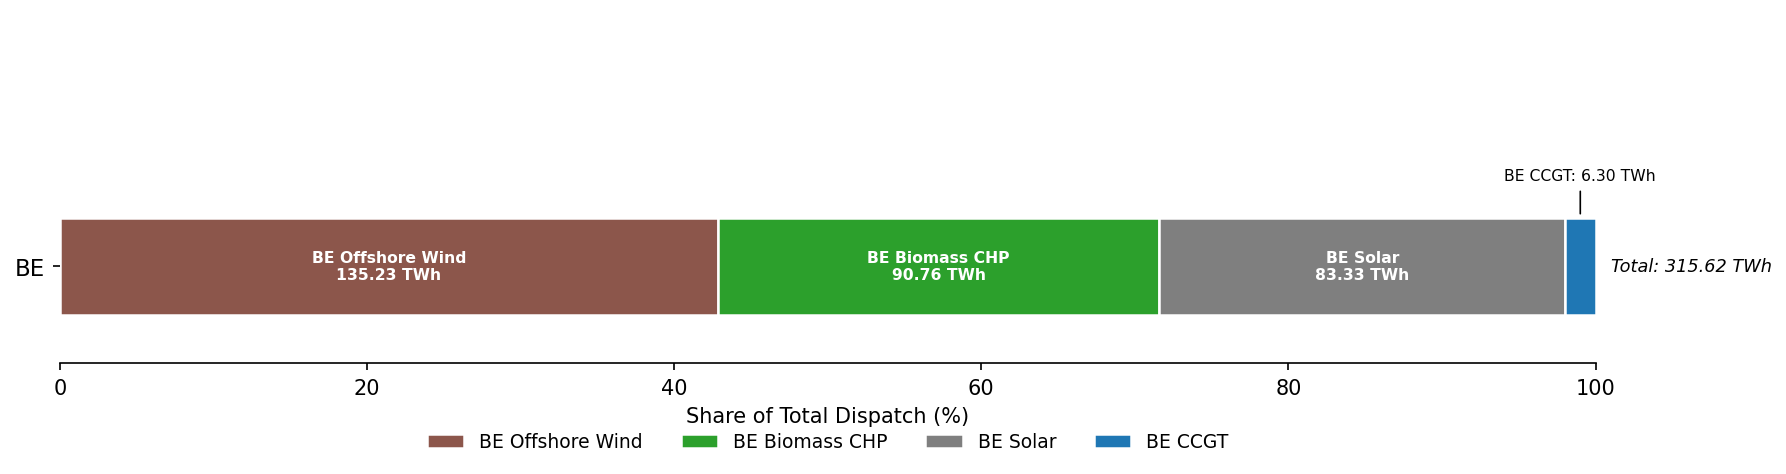
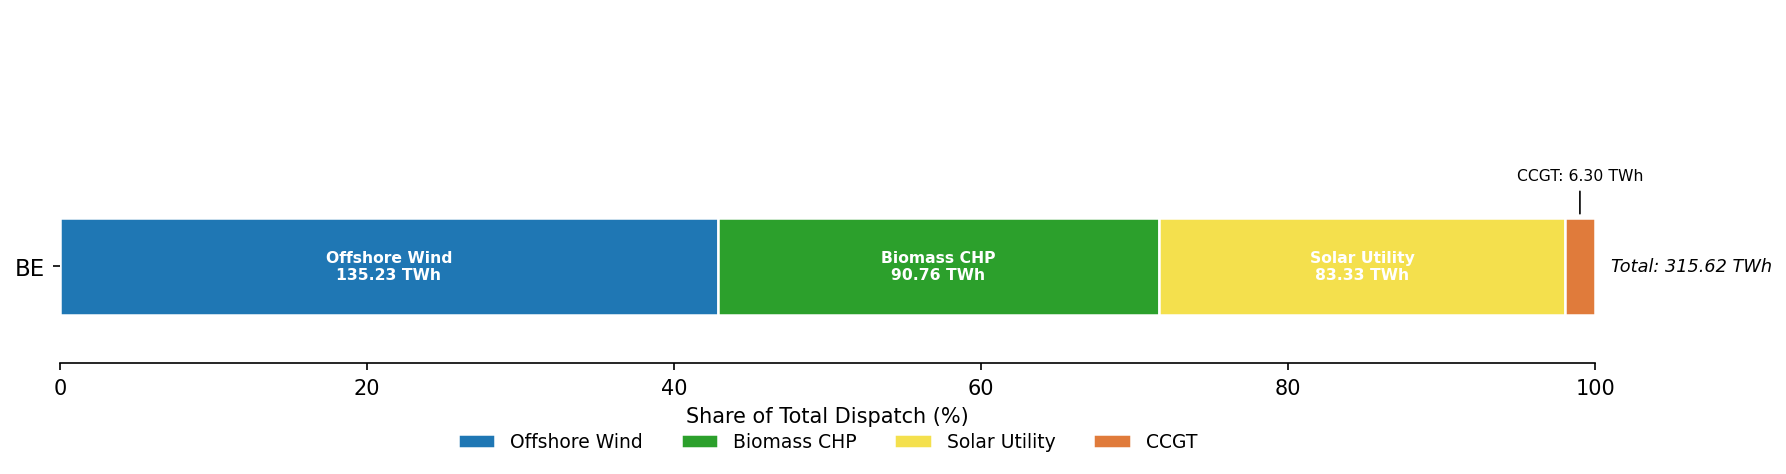
plots d, f not working yet

diff --git a/src/visualizer.py b/src/visualizer.py
@@ -24,6 +24,20 @@ class Visualizer:
         self.capacity_dict = capacity_dict
         self.scenario_name = scenario_name
 
+        self.TECH_COLORS = {
+            "CCGT":           "#e07b3b",
+            "Nuclear":        "#9467bd",
+            "Biomass CHP":    "#2ca02c",
+            "Solar Rooftop":  "#f7c948",
+            "Solar Utility":  "#f4e04d",
+            "Onshore Wind":   "#74c0e0",
+            "Offshore Wind":  "#1f77b4",
+            "Pumped Storage": "#8c564b",
+            "hydro":          "#17becf",
+            "Oil":            "#d62728",
+            "Coal":           "#8c564b",
+        }
+
     def _make_path(self, default_name: str) -> str:
         if self.scenario_name:
             prefix = self.scenario_name + "_"
@@ -31,9 +45,45 @@ class Visualizer:
             prefix = ""
         os.makedirs("results", exist_ok=True)
         return f"results/{prefix}{default_name}.png"
+
+    def _get_label(self, key: str) -> str:
+        """Extract a human-readable label from a generator key, ignoring country."""
+        parts = key.split("_")
+        try:
+            type_idx = next(i for i, p in enumerate(parts) if p in ("conv", "vol", "storage"))
+            # everything after the type token is COUNTRY_tech, but country may
+            # contain underscores (e.g. DE_LU), so match against known countries
+            remainder = parts[type_idx + 1:]  # e.g. ["DE", "LU", "CCGT"]
+            known_countries = [b.replace("bus_", "") for b in self.network.buses.index]
+            # try progressively longer country prefixes until one matches
+            country_token = ""
+            tech_parts = remainder
+            for i in range(1, len(remainder)):
+                candidate = "_".join(remainder[:i])
+                if candidate in known_countries:
+                    country_token = candidate
+                    tech_parts = remainder[i:]
+            normalized = "_".join(parts[:type_idx + 1]) + "_" + "_".join(tech_parts)
+        except StopIteration:
+            normalized = key
+            tech_parts = parts
+
+        return self.LABEL_MAP.get(normalized, "_".join(tech_parts))
     
     # CHANGE: modified the names of each technology as their saved with the country code 
     LABEL_MAP = {
+        "generator_conv_CCGT": "CCGT",
+        "generator_conv_nuclear": "Nuclear",
+        "generator_conv_biomass CHP": "Biomass CHP",
+        "generator_vol_solar-rooftop": "Solar Rooftop",
+        "generator_vol_solar-utility": "Solar Utility",
+        "generator_vol_onwind": "Onshore Wind",
+        "generator_vol_offwind": "Offshore Wind",
+        "generator_storage_Pumped-Storage-Hydro-bicharger": "Pumped Storage",
+        "generator_vol_hydro": "Hydro",
+        "generator_conv_oil": "Oil",
+        "generator_conv_coal": "Coal",
+
         # BE
         "generator_conv_BE_CCGT": "BE CCGT",
         "generator_conv_BE_nuclear": "BE Nuclear",
@@ -133,7 +183,7 @@ class Visualizer:
                 axes[idx].plot(
                     series.index,
                     series.values / 1000,  # Convert MWh to GWh
-                    label=self.LABEL_MAP.get(label, label),
+                    label=self._get_label(label),
                     color=color,
                     linewidth=1.4,
                     alpha=0.9,
@@ -194,9 +244,9 @@ class Visualizer:
         # --- build a global colour map keyed by technology label ---
         # collect all unique labels across all countries
         all_keys = sorted({k for c in country_totals.values() for k in c.keys()})
-        all_labels = [self.LABEL_MAP.get(k, k) for k in all_keys]
+        all_labels = [self._get_label(key) for key in all_keys]
         label_to_color = {
-            label: cm.tab10(i / len(all_labels))
+            label: self.TECH_COLORS.get(label, cm.tab10(i / len(all_labels)))
             for i, label in enumerate(all_labels)
         }
 
@@ -223,7 +273,7 @@ class Visualizer:
 
             left = 0.0
             for key, value in totals.items():
-                label = self.LABEL_MAP.get(key, key)
+                label = self._get_label(key)
                 color = label_to_color[label]
                 pct   = value / total_disp * 100
 
@@ -315,7 +365,7 @@ class Visualizer:
 
         Saves the figure to 'results/sensitivity_capacity_to_weather_years.png'.
         """
-        labels = [self.LABEL_MAP.get(k, k) for k in self.capacity_dict.keys()]
+        labels = [self._get_label(key) for key in self.capacity_dict.keys()]
 
         data = []
         for v in self.capacity_dict.values():
@@ -481,7 +531,7 @@ class Visualizer:
                 ax.plot(
                     diff.index,
                     diff.values / 1000,          # MWh → GWh
-                    label=self.LABEL_MAP.get(key, key),
+                    label=self._get_label(key),
                     color=color,
                     linewidth=1.4,
                     alpha=0.9,
@@ -561,7 +611,7 @@ class Visualizer:
             ax_soc   = axes[s_idx * 2 + 1]
 
             for unit, color in zip(storage_units, colors):
-                label = self.LABEL_MAP.get(unit, unit)
+                label = self._get_label(unit)
 
                 # --- power ---
                 power = self.network.storage_units_t.p[unit].loc[start:end]
@@ -617,5 +667,154 @@ class Visualizer:
             fontsize=12, framealpha=0.7, bbox_to_anchor=(0.5, -0.04),
         )
 
+        plt.savefig(self._make_path(name), dpi=150, bbox_inches="tight")
+        plt.close()
+    
+    def plot_scenario_comparison(
+        self,
+        other: "Visualizer",
+        self_label: str = "C",
+        other_label: str = "F",
+        name: str = "scenario_comparison",
+    ) -> None:
+        """
+        Grouped vertical bar chart comparing dispatch (TWh) per technology
+        between two scenarios for Belgium.
+        """
+        # collect all technology labels across both scenarios
+        all_keys = sorted(
+            set(self.dispatch_series_dict.keys()) | set(other.dispatch_series_dict.keys())
+        )
+        all_labels = [self._get_label(k) for k in all_keys]
+
+        # deduplicate while preserving order
+        seen = {}
+        for key, label in zip(all_keys, all_labels):
+            if label not in seen:
+                seen[label] = key
+        unique_labels = list(seen.keys())
+        unique_keys   = list(seen.values())
+
+        def get_twh(vis, key):
+            s = vis.dispatch_series_dict.get(key)
+            return s.sum() / 1e6 if s is not None else 0.0
+
+        values_self  = [get_twh(self, k)  for k in unique_keys]
+        values_other = [get_twh(other, k) for k in unique_keys]
+
+        x      = np.arange(len(unique_labels))
+        width  = 0.35
+        colors = [self.TECH_COLORS.get(l, cm.tab10(i / len(unique_labels)))
+                for i, l in enumerate(unique_labels)]
+
+        fig, ax = plt.subplots(figsize=(10, 5))
+
+        for i, (label, v_self, v_other, color) in enumerate(
+            zip(unique_labels, values_self, values_other, colors)
+        ):
+            ax.bar(x[i] - width / 2, v_self,  width, color=color, alpha=1.0,
+                edgecolor="white", linewidth=0.8)
+            ax.bar(x[i] + width / 2, v_other, width, color=color, alpha=0.45,
+                edgecolor="white", linewidth=0.8)
+
+        # scenario legend entries
+        from matplotlib.patches import Patch
+        scenario_handles = [
+            Patch(facecolor="grey", alpha=1.0,  label=self_label),
+            Patch(facecolor="grey", alpha=0.45, label=other_label),
+        ]
+        # technology legend entries
+        tech_handles = [
+            Patch(facecolor=self.TECH_COLORS.get(l, cm.tab10(i / len(unique_labels))),
+                label=l)
+            for i, l in enumerate(unique_labels)
+        ]
+
+        ax.set_xticks(x)
+        ax.set_xticklabels(unique_labels, fontsize=10)
+        ax.set_ylabel("Dispatch (TWh)", fontsize=12)
+        ax.set_ylim(bottom=0)
+        ax.spines[["top", "right"]].set_visible(False)
+        ax.grid(axis="y", linestyle="--", alpha=0.4)
+
+        # two-part legend: scenarios on top, technologies below
+        leg1 = ax.legend(handles=scenario_handles, loc="upper right", fontsize=10,
+                        framealpha=0.7, title="Scenario")
+        ax.add_artist(leg1)
+        ax.legend(handles=tech_handles, loc="upper left", fontsize=9,
+                framealpha=0.7, title="Technology", ncol=2)
+
+        fig.tight_layout()
+        plt.savefig(self._make_path(name), dpi=150, bbox_inches="tight")
+        plt.close()
+
+
+    def plot_co2_sensitivity(
+        self,
+        networks_f: dict,
+        ref_co2: float,
+        name: str = "co2_sensitivity",
+    ) -> None:
+        """
+        Stacked area chart showing dispatch (TWh) per technology as a function
+        of the CO2 constraint expressed as % of the 1990 reference level.
+        """
+        # collect all technology labels across all solved networks
+        all_keys = sorted({
+            k
+            for nf in networks_f.values()
+            for k in nf.network.generators.index
+        })
+        all_labels = [self._get_label(k) for k in all_keys]
+
+        # deduplicate
+        seen = {}
+        for key, label in zip(all_keys, all_labels):
+            if label not in seen:
+                seen[label] = key
+        unique_labels = list(seen.keys())
+        unique_keys   = list(seen.values())
+
+        # x-axis: CO2 % levels, sorted ascending
+        percents = sorted(networks_f.keys())
+        x_vals   = [p * 100 for p in percents]   # 0 → 100
+
+        # dispatch matrix: shape (n_techs, n_co2_levels)
+        dispatch = np.zeros((len(unique_keys), len(percents)))
+        for j, percent in enumerate(percents):
+            nf = networks_f[percent]
+            for i, key in enumerate(unique_keys):
+                if key in nf.network.generators_t.p.columns:
+                    dispatch[i, j] = nf.network.generators_t.p[key].sum() / 1e6
+
+        colors = [
+            self.TECH_COLORS.get(l, cm.tab10(i / len(unique_labels)))
+            for i, l in enumerate(unique_labels)
+        ]
+
+        fig, ax = plt.subplots(figsize=(10, 5))
+
+        # stacked area: fill between cumulative sums
+        bottom = np.zeros(len(percents))
+        for i, (label, color) in enumerate(zip(unique_labels, colors)):
+            top = bottom + dispatch[i]
+            ax.fill_between(x_vals, bottom, top, color=color, alpha=0.85,
+                            label=label, linewidth=0)
+            bottom = top
+
+        # reference line at 100%
+        ax.axvline(100, color="black", linewidth=1, linestyle="--", alpha=0.5,
+                label="1990 reference")
+
+        ax.set_xlabel("CO₂ constraint (% of 1990 reference)", fontsize=12)
+        ax.set_ylabel("Dispatch (TWh)", fontsize=12)
+        ax.set_xlim(min(x_vals), max(x_vals))
+        ax.set_ylim(bottom=0)
+        ax.spines[["top", "right"]].set_visible(False)
+        ax.grid(axis="y", linestyle="--", alpha=0.4)
+        ax.legend(loc="upper left", fontsize=9, framealpha=0.7,
+                ncol=2, title="Technology")
+
+        fig.tight_layout()
         plt.savefig(self._make_path(name), dpi=150, bbox_inches="tight")
         plt.close()

diff --git a/main.py b/main.py
@@ -1,3 +1,5 @@
+import matplotlib
+matplotlib.use("Agg")  # non-interactive backend, no Qt needed
 import copy
 
 import pandas as pd
@@ -61,11 +63,11 @@ CONFIG_J = copy.deepcopy(CONFIG_I)
 
 """>>>> SOLVE THE OPTIMIZATION PROBLEMS<<<<"""
 # TASK A
-input_data_a = InputHandler(CONFIG_A)
-network_a = NetworkBuilder(CONFIG_A, input_data_a, CONFIG_A["years"][0])
-visualizer_a = Visualizer(network_a.network, scenario_name = 'a')
-visualizer_a.plot_dispatch_time_series(pd.Timestamp("2023-07-01"), pd.Timestamp("2023-12-01"))
-visualizer_a.plot_annual_electricity_mix()
+# input_data_a = InputHandler(CONFIG_A)
+# network_a = NetworkBuilder(CONFIG_A, input_data_a, CONFIG_A["years"][0])
+# visualizer_a = Visualizer(network_a.network, scenario_name = 'a')
+# visualizer_a.plot_dispatch_time_series(pd.Timestamp("2023-07-01"), pd.Timestamp("2023-12-01"))
+# visualizer_a.plot_annual_electricity_mix()
 
 # # TASK B
 # input_data_b = InputHandler(CONFIG_B)
@@ -90,9 +92,9 @@ visualizer_a.plot_annual_electricity_mix()
 # visualizer_cf = Visualizer(networks[CONFIG_B["years"][0]].network, scenario_name="b")
 # visualizer_cf.plot_capacity_factors(input_data_b)
 
-# # TASK C
-# input_data_c = InputHandler(CONFIG_C)
-# network_c = NetworkBuilder(CONFIG_C, input_data_c, CONFIG_C["years"][0])
+# TASK C
+input_data_c = InputHandler(CONFIG_C)
+network_c = NetworkBuilder(CONFIG_C, input_data_c, CONFIG_C["years"][0])
 # visualizer_c = Visualizer(network_c.network, scenario_name = 'c')
 # visualizer_c.plot_dispatch_time_series(pd.Timestamp("2023-07-01"), pd.Timestamp("2023-12-01"))
 # visualizer_c.plot_dispatch_diff_time_series(
@@ -107,18 +109,41 @@ visualizer_a.plot_annual_electricity_mix()
 # )
 
 # TASK D
-input_data_d = InputHandler(CONFIG_D)
-network_d = NetworkBuilder(CONFIG_D, input_data_d, CONFIG_D["years"][0])
+# input_data_d = InputHandler(CONFIG_D)
+# network_d = NetworkBuilder(CONFIG_D, input_data_d, CONFIG_D["years"][0])
+# visualizer_d = Visualizer(network_d.network, scenario_name = 'd')
+# visualizer_d.plot_annual_electricity_mix()
 
 # TASK F
-# input_data_f = InputHandler(CONFIG_F)
-# REF_CO2 = CONFIG_F["global_CO2_limit"]
+input_data_f = InputHandler(CONFIG_F)
+REF_CO2 = CONFIG_F["global_CO2_limit"]
 
-# networks_f = {}
-# for percent in np.arange(1,0, -0.1):
-#     CONFIG_F["global_CO2_limit"] = percent * REF_CO2
-#     network_f = NetworkBuilder(CONFIG_B, input_data_f, CONFIG_B["years"][0])
-#     networks_f[percent] = network_f
+networks_f = {}
+for percent in np.arange(1.0, -0.1, -0.1):
+    co2_limit = percent * REF_CO2
+    CONFIG_F["global_CO2_limit"] = co2_limit
+    try:
+        network_f = NetworkBuilder(CONFIG_F, input_data_f, CONFIG_F["years"][0])
+        networks_f[round(percent, 1)] = network_f
+        print(f"CO2 {percent*100:.0f}% — solved OK")
+    except Exception as e:
+        print(f"CO2 {percent*100:.0f}% — infeasible or error: {e}")
+
+# grouped bar chart: C vs F at 100%
+# visualizer_c = Visualizer(network_c.network, scenario_name="c")
+# visualizer_f_full = Visualizer(networks_f[max(networks_f.keys())].network, scenario_name="f")
+# visualizer_c.plot_scenario_comparison(
+#     other=visualizer_f_full,
+#     self_label="C (no CO₂ limit)",
+#     other_label="F (1990 CO₂ limit)",
+#     name="comparison_c_vs_f",
+# )
+# sensitivity plot
+# visualizer_c.plot_co2_sensitivity(
+#     networks_f=networks_f,
+#     ref_co2=REF_CO2,
+#     name="co2_sensitivity",
+# )
 
 # # TASK G
 # input_data_g = InputHandler(CONFIG_G)
